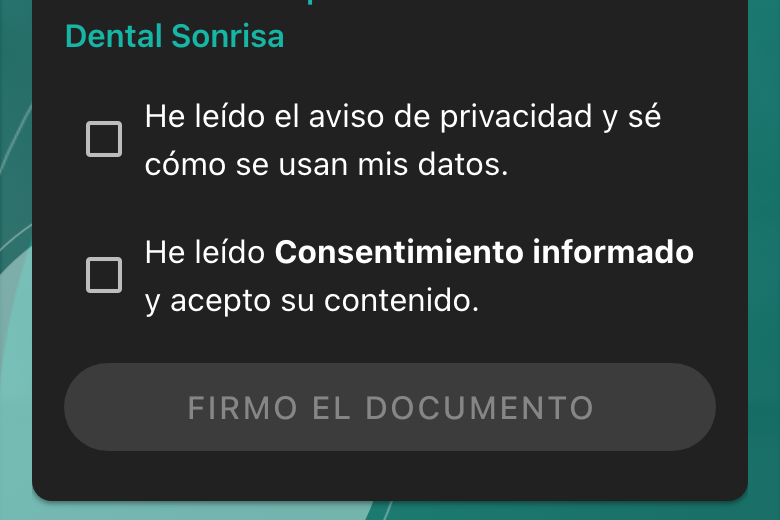
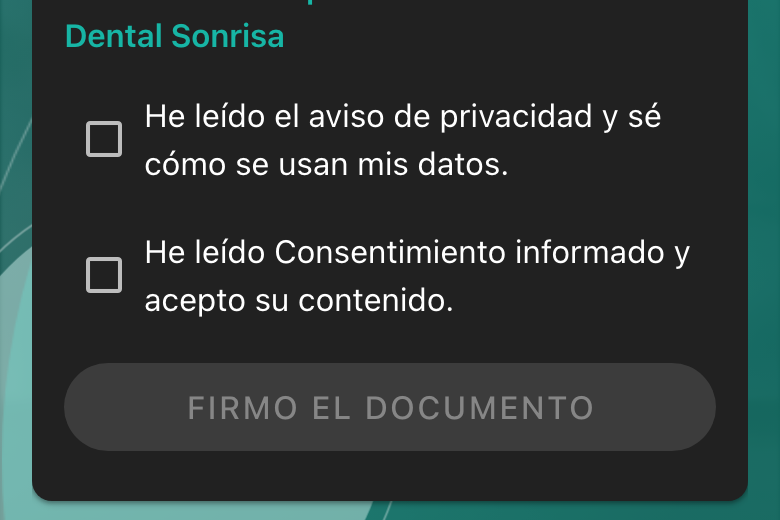
fix(pwa): consent accept label is plain text like the privacy box, no bold (CORE-156)

diff --git a/apps/pwa/src/views/PatientQuestionnaireView.vue b/apps/pwa/src/views/PatientQuestionnaireView.vue
@@ -146,14 +146,8 @@
                   <template #label>{{ t("app.questionnaire.consentStep.privacyAccept") }}</template>
                 </VCheckbox>
                 <VCheckbox v-model="accepted" hide-details class="patient-questionnaire__consent" data-testid="consent-accept">
-                  <template #label>
-                    <!-- CORE-156: names every document this signature covers, bold and unquoted, joined the locale's way ("A y B"). -->
-                    <Translation keypath="app.questionnaire.consentStep.accept" :plural="signedDocuments.length" scope="global" tag="span">
-                      <template #documents>
-                        <template v-for="(part, i) in signedDocumentParts" :key="i"><strong v-if="part.type === 'element'">{{ part.value }}</strong><template v-else>{{ part.value }}</template></template>
-                      </template>
-                    </Translation>
-                  </template>
+                  <!-- CORE-156: names every document this signature covers, plain text like the privacy box, joined the locale's way ("A y B"). -->
+                  <template #label>{{ t("app.questionnaire.consentStep.accept", { documents: signedDocumentList }, signedDocuments.length) }}</template>
                 </VCheckbox>
                 <!-- The patient's own request for a copy (legal, 2026-09-28): unticked by default, offered only for an address that is theirs alone. -->
                 <VCheckbox
@@ -287,7 +281,7 @@
 import { reportCaught, reportFailedResponse } from "@api";
 import { computed, onMounted, ref, watch } from "vue";
 import { useRoute } from "vue-router";
-import { Translation, useI18n } from "vue-i18n";
+import { useI18n } from "vue-i18n";
 import { AuthCard } from "@ui";
 import AppButton from "../components/AppButton.vue";
 import AppIcon from "../components/AppIcon.vue";
@@ -459,8 +453,8 @@ function stepTitle(s: PublicStep): string {
 
 /** The documents the current signature accepts: one per consent step today, a list so one signature can cover several. */
 const signedDocuments = computed(() => (step.value?.type === "consent" ? [stepTitle(step.value)] : []));
-const signedDocumentParts = computed(() =>
-  new Intl.ListFormat(DATE_LOCALES[locale.value as string] ?? "es-MX", { type: "conjunction" }).formatToParts(signedDocuments.value),
+const signedDocumentList = computed(() =>
+  new Intl.ListFormat(DATE_LOCALES[locale.value as string] ?? "es-MX", { type: "conjunction" }).format(signedDocuments.value),
 );
 
 const cardTitle = computed(() => {

diff --git a/apps/pwa/src/views/PatientQuestionnaireView.spec.ts b/apps/pwa/src/views/PatientQuestionnaireView.spec.ts
@@ -226,11 +226,9 @@ describe("PatientQuestionnaireView (public QR self-fill)", () => {
     expect(alerts(wrapper)).toEqual(["Tick the box above to confirm you have read the document."]);
     expect(apiFetch).toHaveBeenCalledTimes(1);
 
-    // The accept box lists the documents it accepts, bold and unquoted (CORE-156); the privacy box above names its own.
+    // The accept box lists the documents it accepts as plain text, unquoted and not bold, like the privacy box above (CORE-156).
     expect(wrapper.find("[data-testid='consent-accept']").text()).toBe("I have read Informed consent and accept its content.");
-    expect(wrapper.findAll("[data-testid='consent-accept'] strong").map((s) => s.text())).toEqual(["Informed consent"]);
-    // One inline span: Vuetify's label is a flex row, so loose text nodes would split into columns.
-    expect(wrapper.find("[data-testid='consent-accept'] label > span").text()).toBe("I have read Informed consent and accept its content.");
+    expect(wrapper.find("[data-testid='consent-accept'] label strong").exists()).toBe(false);
     await wrapper.find("[data-testid='consent-accept'] input").setValue(true);
     apiFetch.mockResolvedValueOnce(jsonResponse(true, 201, { step: "informedConsent", completed: false }));
     await wrapper.find("form").trigger("submit");
